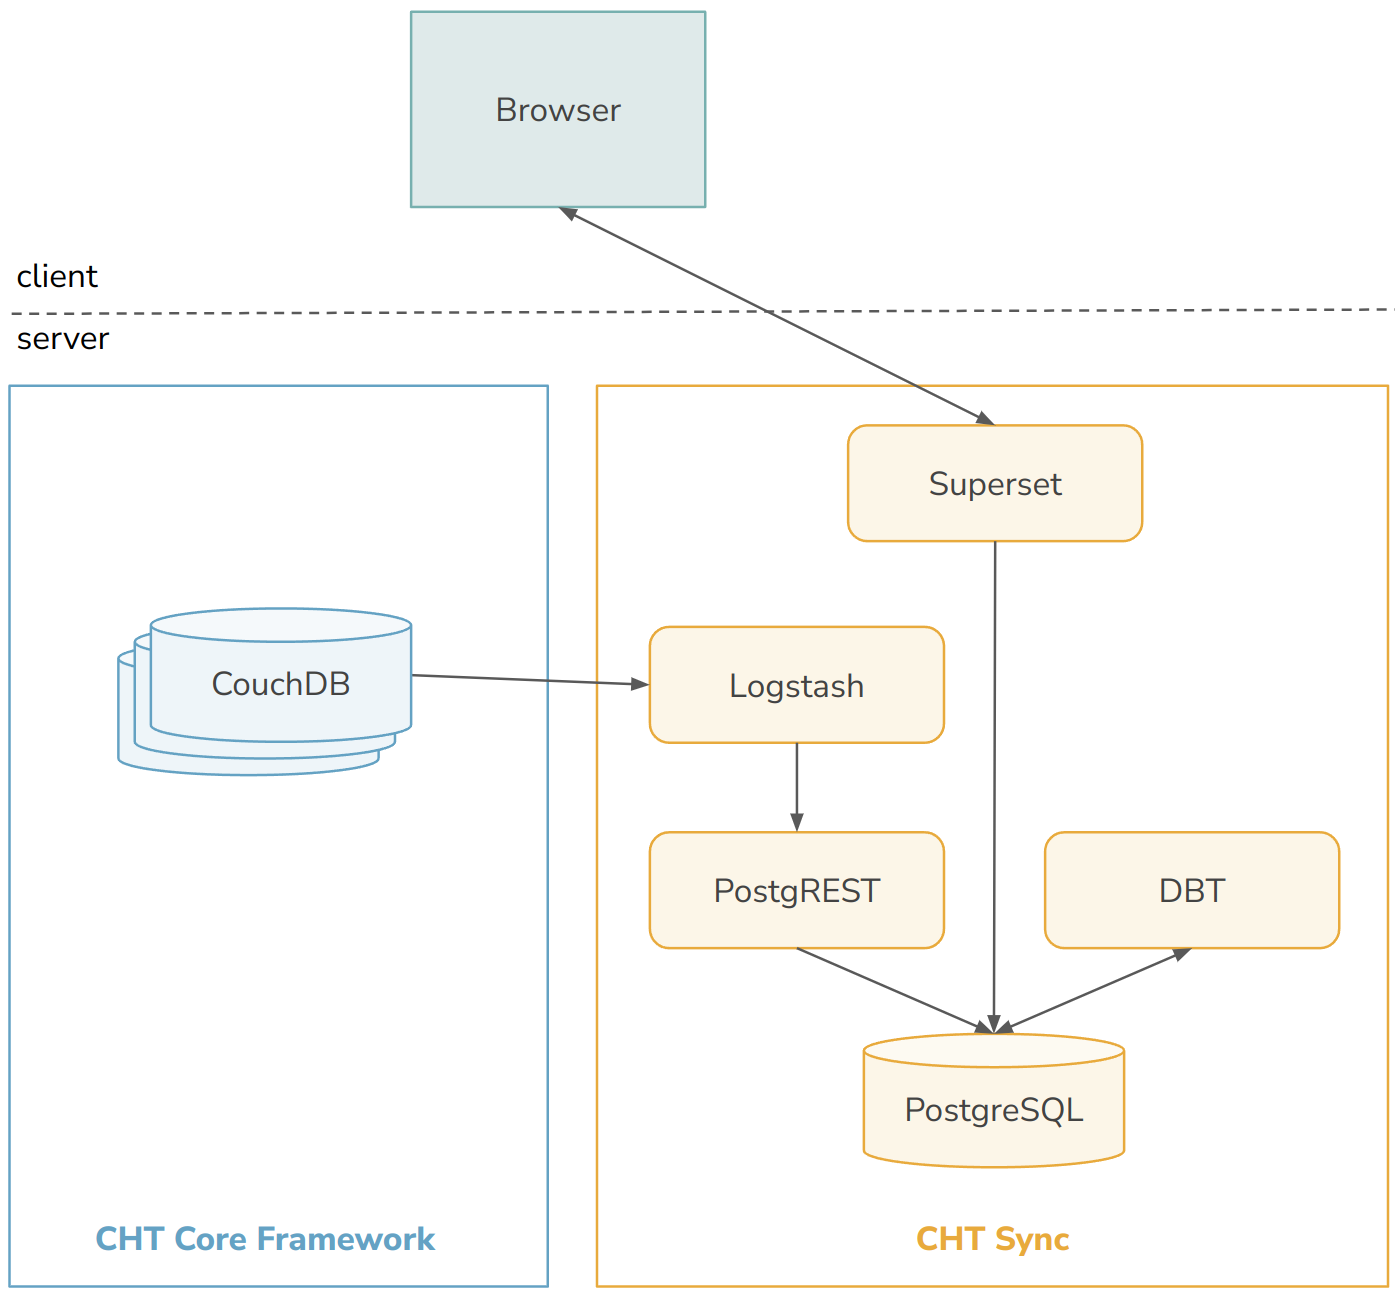
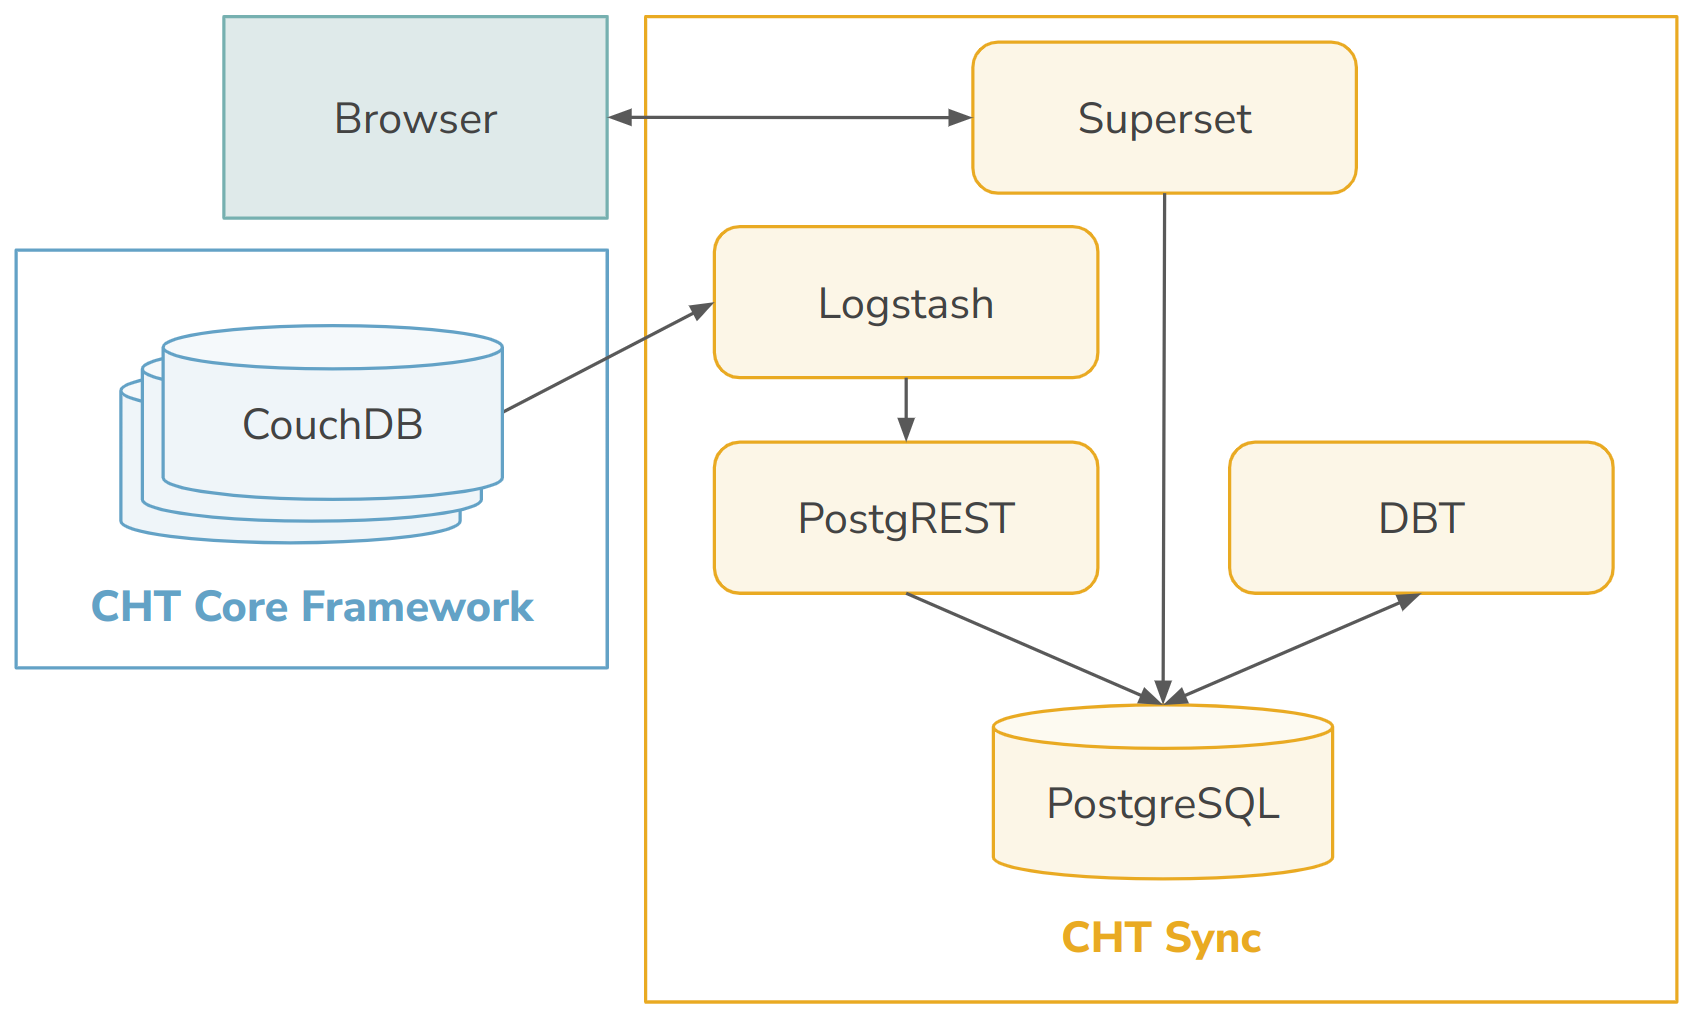
tighten up cht sync diagram

diff --git a/content/en/core/overview/data-flows-for-analytics/cht-sync.md b/content/en/core/overview/data-flows-for-analytics/cht-sync.md
@@ -10,6 +10,8 @@ description: >
 
 Most CHT deployments require some sort of analytics so that stakeholders can make data driven decisions. CouchDB, which is the database used by the CHT, is not designed for analytics. It is a document database, which means that it is optimized for storing and retrieving documents. It is not optimized for aggregating data. For example, if you wanted to know how many patients were registered in a particular area, you would have to query the database for all the patients in that area, and then count them. This is not a very efficient process. It is much more efficient to store the number of patients in a particular area in a separate database, and update that number whenever a patient is registered or unregistered. This is what CHT Sync paired with CHT Pipeline is designed to do.
 
+<!-- make updates to this diagram on the google slides:            -->
+<!-- https://docs.google.com/presentation/d/1j4jPsi-gHbiaLBfgYOyru1g_YV98PkBrx2zs7bwhoEQ/ -->
 [![Data Flows](cht-sync.png)](cht-sync.png)
 
 #### Logstash and PostgREST

diff --git a/content/en/core/overview/watchdog.md b/content/en/core/overview/watchdog.md
@@ -10,6 +10,8 @@ description: >
 
 CHT Watchdog is deployed on a separate server so that you can watch for, and alert on, any critical issues with the CHT Core. Read more about [setting up CHT Watchdog]({{< relref "apps/guides/hosting/monitoring/setup" >}}).
 
+<!-- make updates to this diagram on the google slides:            -->
+<!-- https://docs.google.com/presentation/d/1j4jPsi-gHbiaLBfgYOyru1g_YV98PkBrx2zs7bwhoEQ/ -->
 [![Data Flows](CHT.Watchdog.Architecture.png)](CHT.Watchdog.Architecture.png)
 
 ### Grafana

diff --git a/content/en/core/overview/architecture.md b/content/en/core/overview/architecture.md
@@ -8,6 +8,8 @@ description: >
 
 ## Overview
 
+<!-- make updates to this diagram on the google slides:            -->
+<!-- https://docs.google.com/presentation/d/1j4jPsi-gHbiaLBfgYOyru1g_YV98PkBrx2zs7bwhoEQ/ -->
 [![Data Flows](architecture.png)](architecture.png)
 
 ## Server
